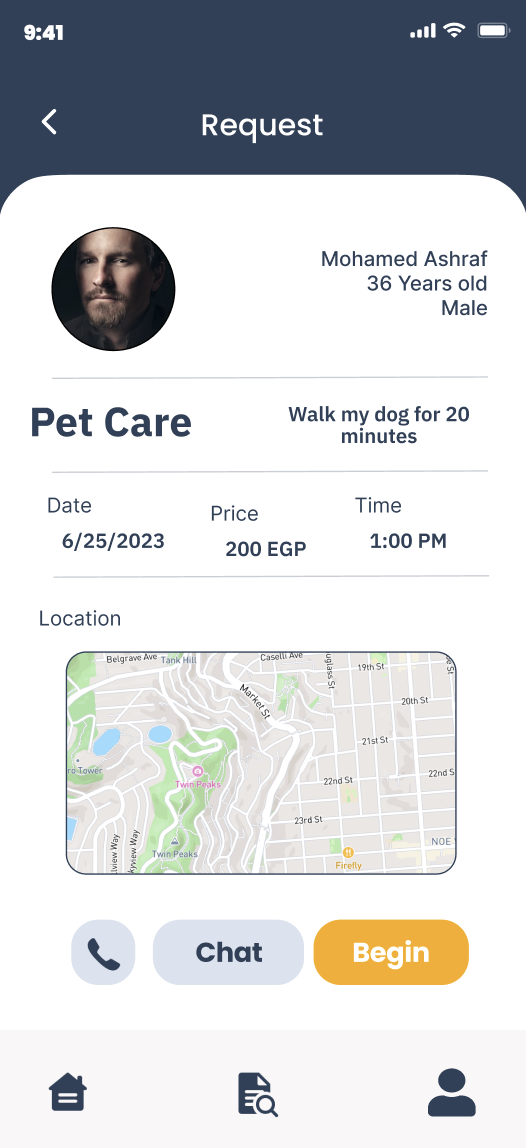
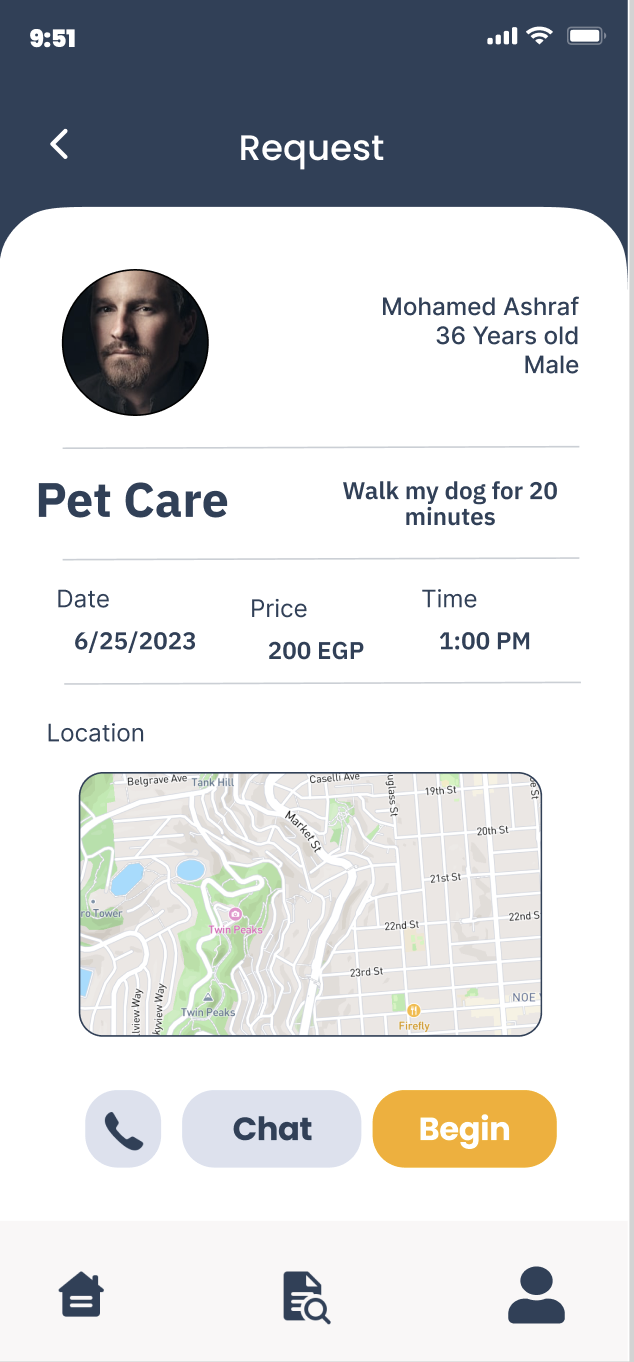
readme

diff --git a/README.md b/README.md
@@ -12,7 +12,7 @@ Handy Helper is an app that combines all individuals who can offer services like
 ## Service Provider
 <p float="left" align="center">
   <img src="demo/ServiceProvider1.png" width="300" /> 
-  <img src="demo/ServiceProvider1.png" width="300" />
+  <img src="demo/ServiceProvider2.png" width="300" />
 </p>
 
 ## Features
